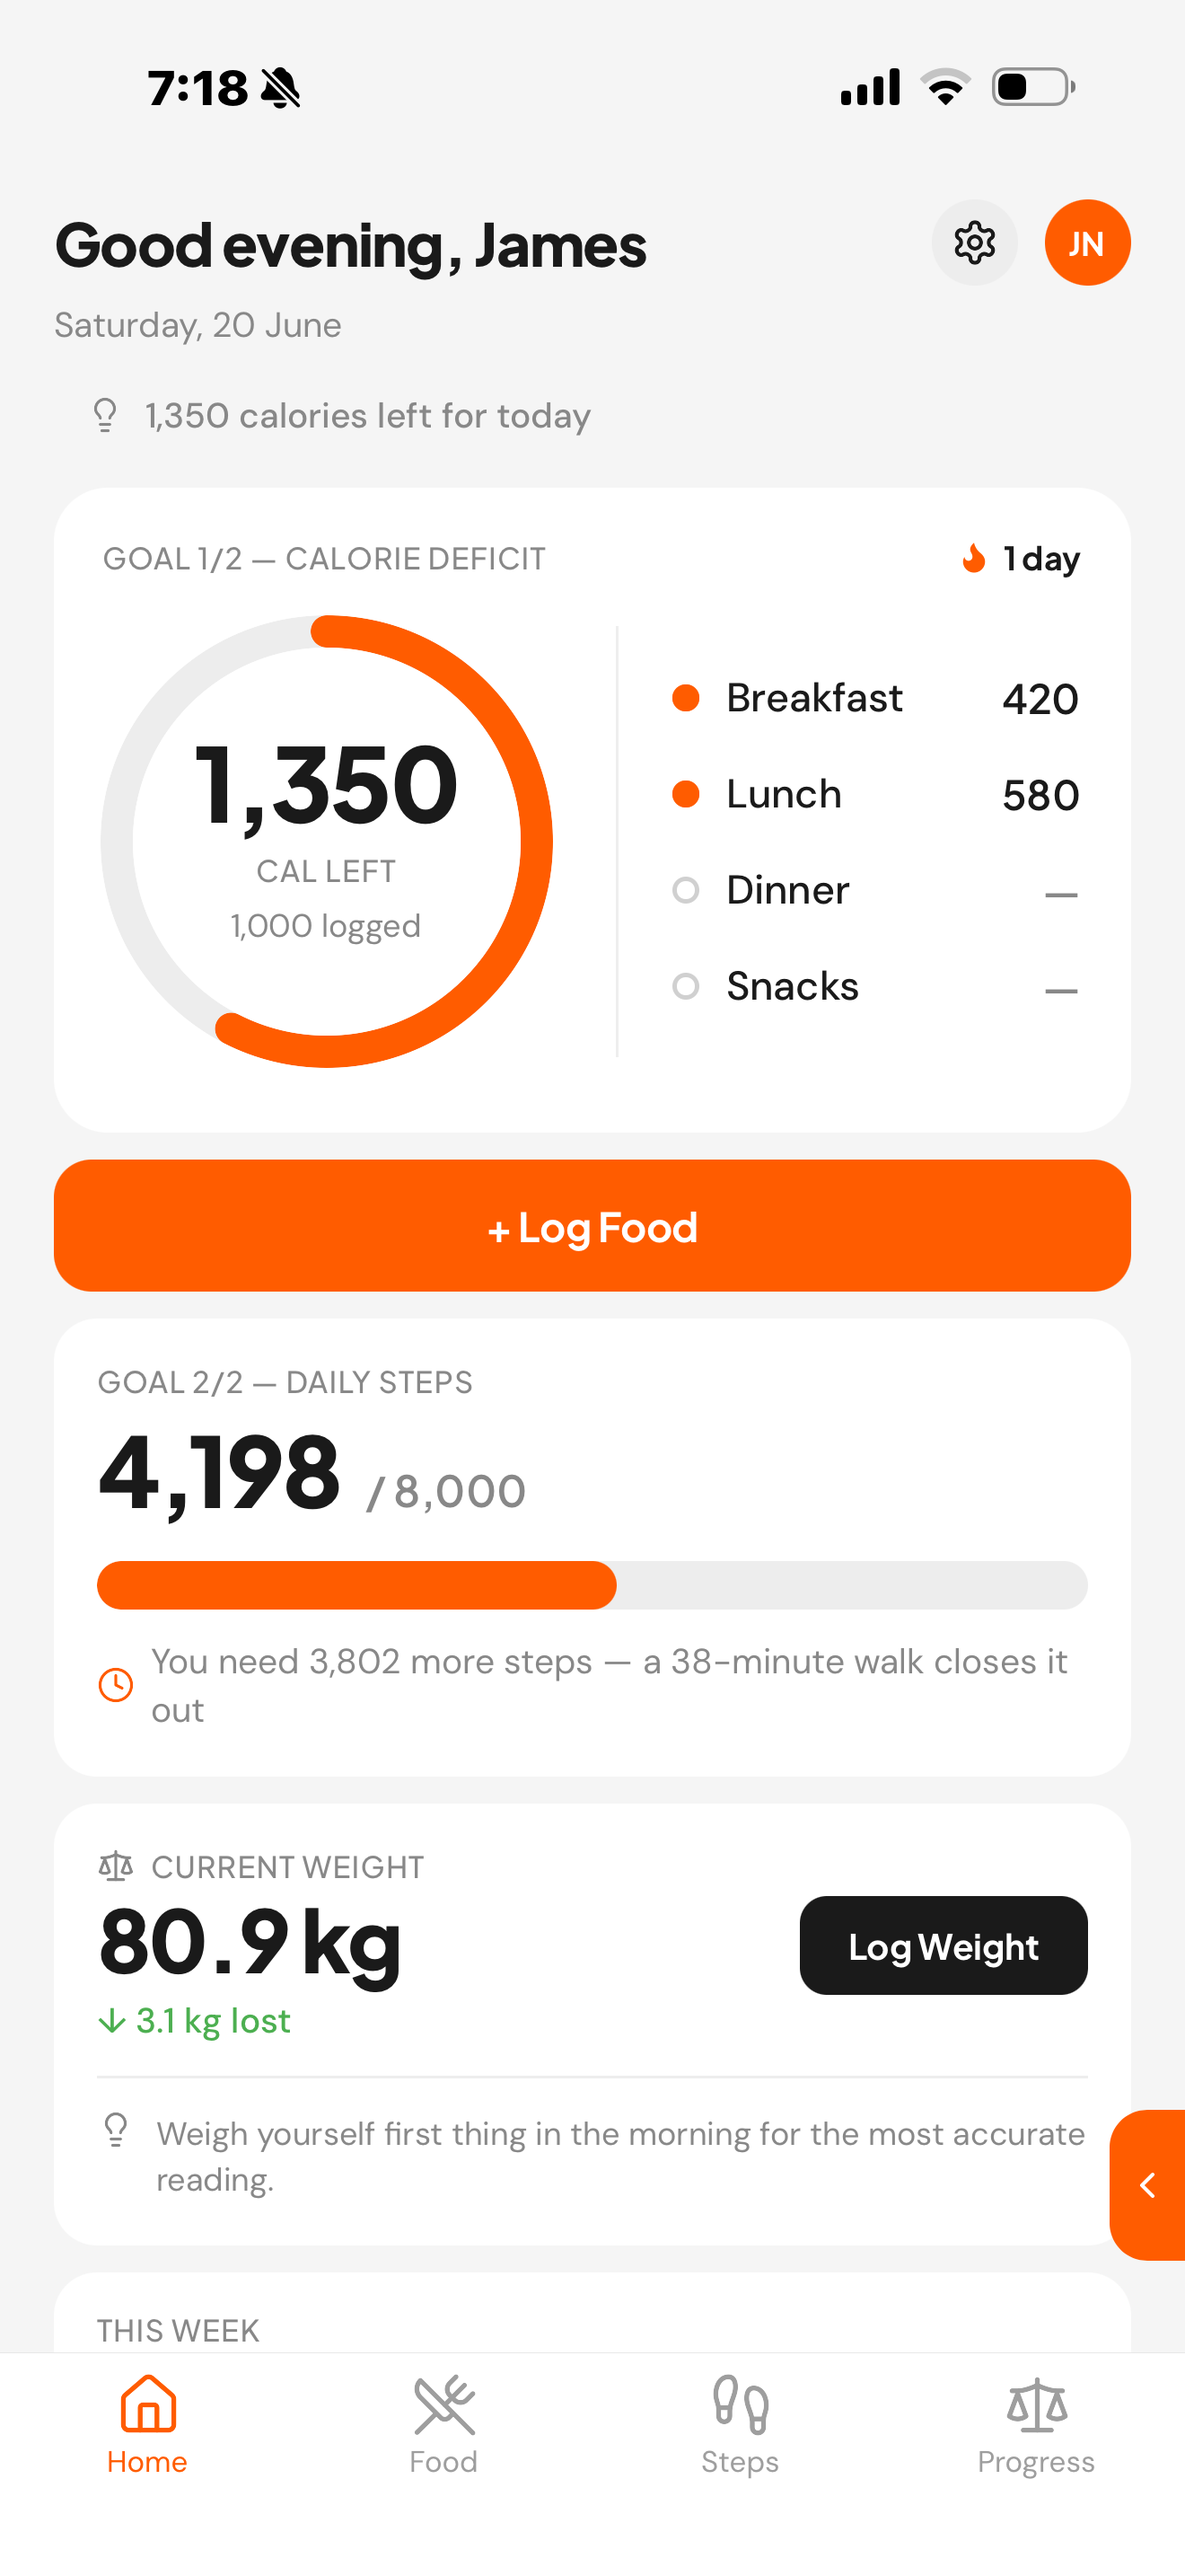
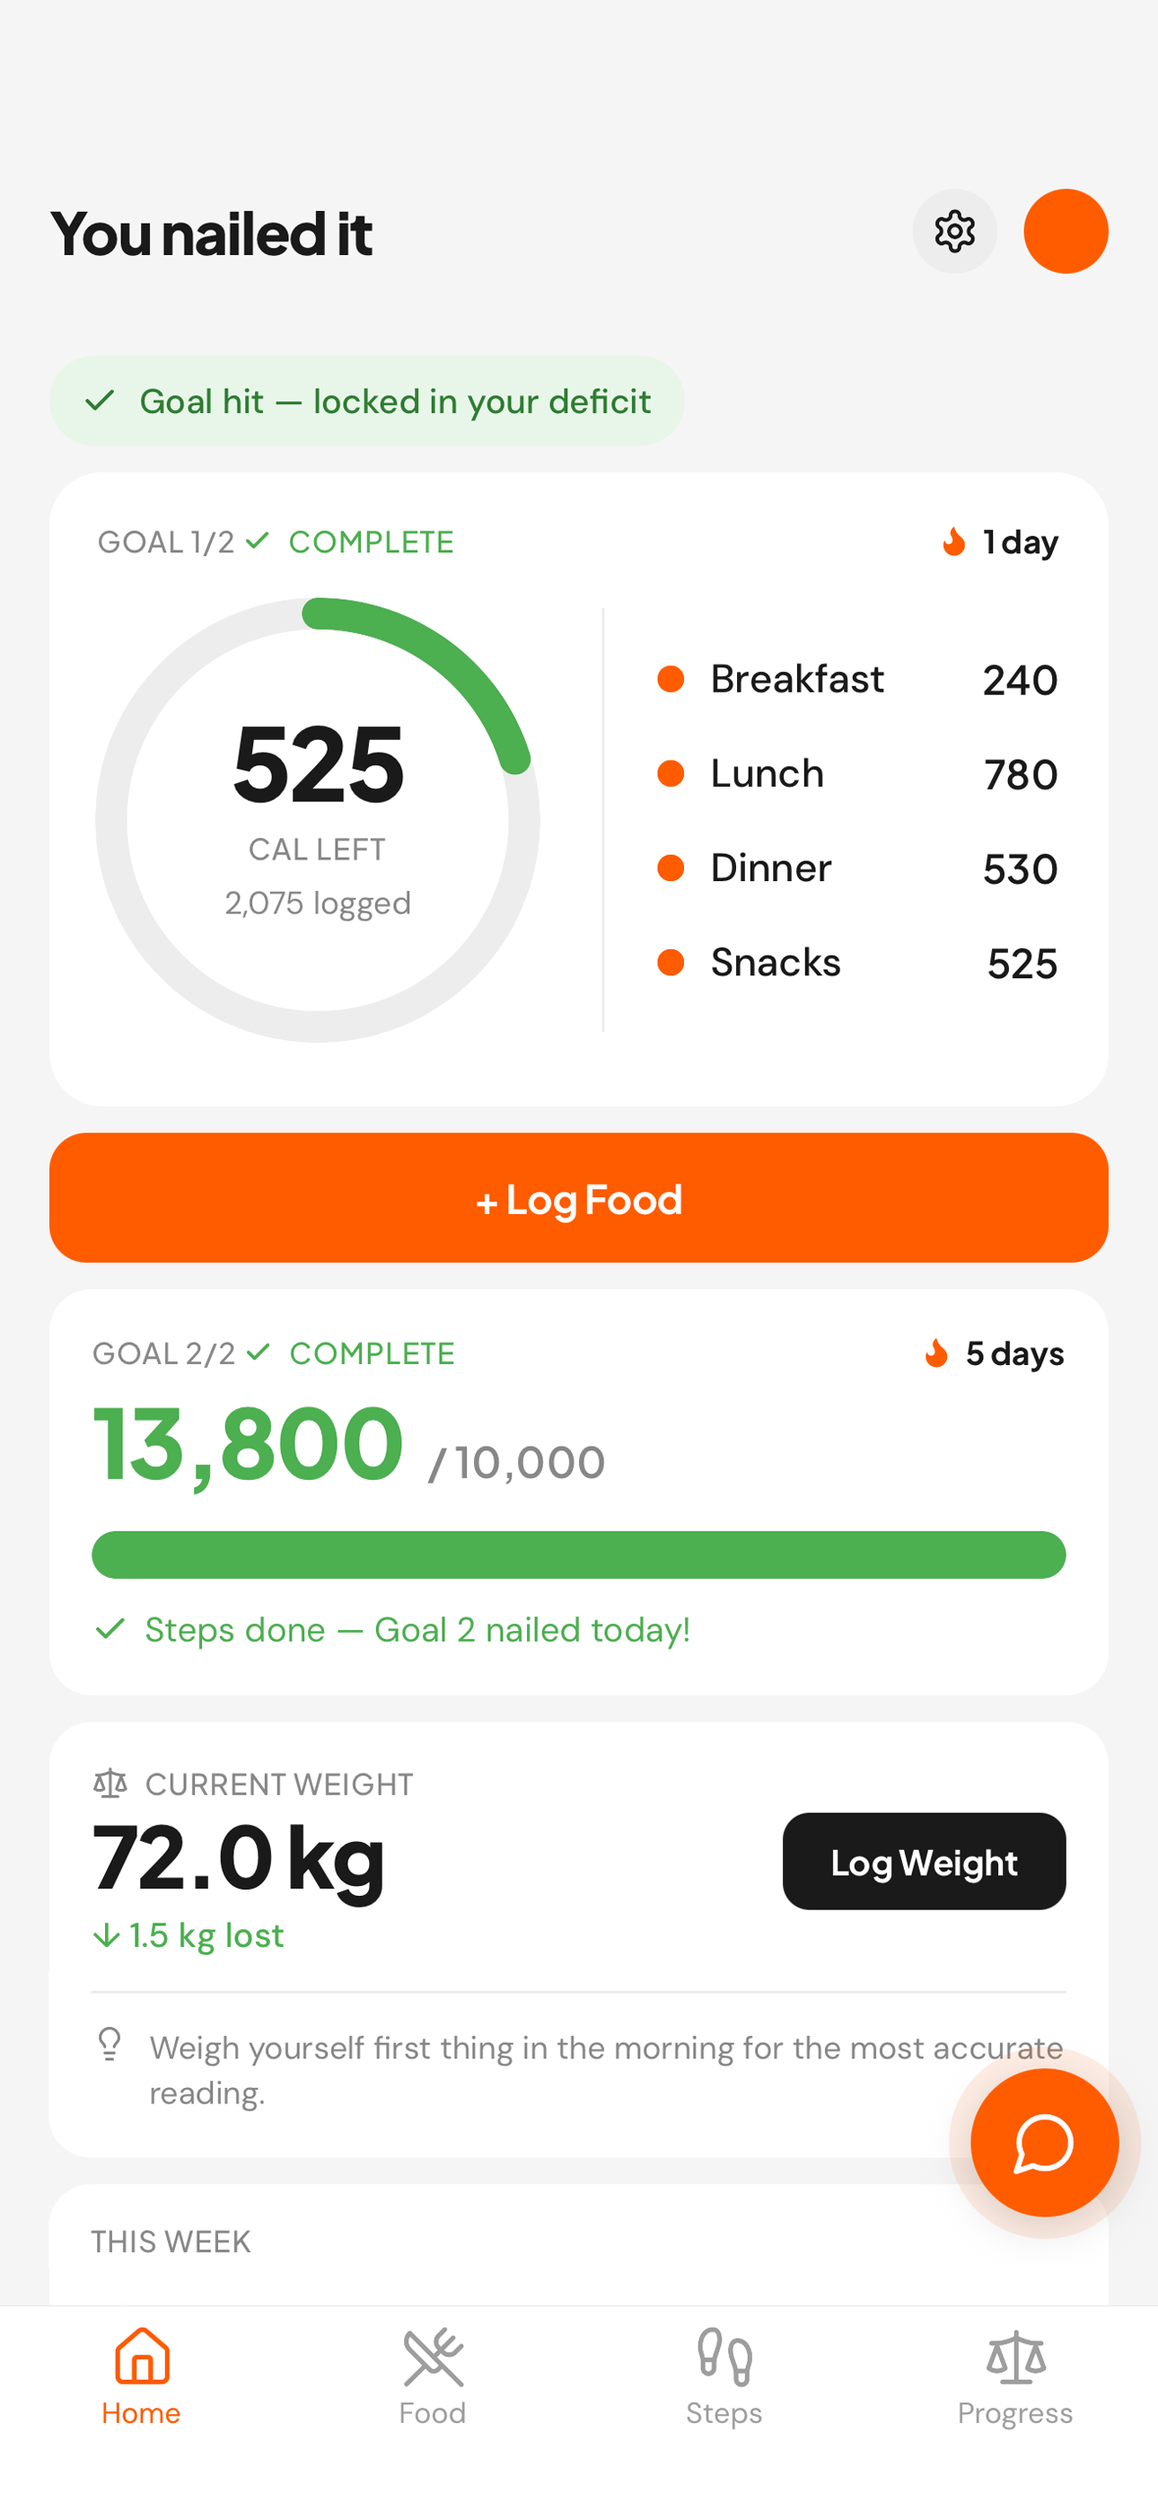
Homepage for the Monthly: hero, Monthly band, FAQ, footer conditions, Apple Health wording, de-identified screenshot, overflow fix — local branch, push at 1.4.0 release

diff --git a/index.html b/index.html
@@ -7,10 +7,10 @@
      Deleting this tag silently un-verifies the domain, with no error anywhere, and
      degrades iOS web-event attribution. Must stay on the root page. -->
 <meta name="facebook-domain-verification" content="4comzjx3nbvg57ntysb26hwv81cun3" />
-<title>CalCut — Two rules. That's it.</title>
-<meta name="description" content="The fat loss app built on two daily rules. Hit your steps. Stay in a calorie deficit. That's it.">
-<meta property="og:title" content="CalCut — Two rules. That's it.">
-<meta property="og:description" content="The fat loss app built on two daily rules. Hit your steps. Stay in a calorie deficit.">
+<title>CalCut — Lose weight. Win A$1,000 every month.</title>
+<meta name="description" content="The calorie and step tracker that pays out. Hit your two daily goals to score points — the member with the most points each month wins A$1,000. 18+, eligible countries, T&amp;Cs apply.">
+<meta property="og:title" content="CalCut — Lose weight. Win A$1,000 every month.">
+<meta property="og:description" content="Hit your calorie and step goals each day to score points. Most points each month wins A$1,000. 18+, eligible countries, T&amp;Cs apply.">
 <meta property="og:type" content="website">
 <meta property="og:url" content="https://calcut.com.au">
 <meta property="og:image" content="https://calcut.com.au/assets/icon.png">
@@ -58,8 +58,8 @@
   @media (max-width: 600px) { .nav-links { gap: 18px; font-size: 14px; } .nav-inner { padding: 16px 20px; } .nav-brand-icon { height: 26px; width: 26px; } .nav-brand-text { font-size: 17px; } }
 
   /* HERO */
-  .hero { max-width: 1200px; margin: 0 auto; padding: 72px 24px 80px; display: grid; grid-template-columns: 1.15fr 1fr; gap: 60px; align-items: center; }
-  @media (max-width: 900px) { .hero { grid-template-columns: 1fr; gap: 56px; padding: 48px 24px 56px; text-align: center; } }
+  .hero { overflow-x: clip; max-width: 1200px; margin: 0 auto; padding: 72px 24px 80px; display: grid; grid-template-columns: 1.15fr 1fr; gap: 60px; align-items: center; }
+  @media (max-width: 900px) { .hero { grid-template-columns: minmax(0, 1fr); gap: 56px; padding: 48px 24px 56px; text-align: center; } }
 
   .hero-content { max-width: 580px; }
   @media (max-width: 900px) { .hero-content { margin: 0 auto; } }
@@ -68,7 +68,7 @@
   .hero-eyebrow::before { content: ''; width: 6px; height: 6px; border-radius: 50%; background: var(--orange); animation: pulse 2s ease-in-out infinite; }
   @keyframes pulse { 0%, 100% { opacity: 1; transform: scale(1); } 50% { opacity: 0.5; transform: scale(1.3); } }
 
-  h1.hero-title { font-family: var(--display); font-weight: 800; font-size: clamp(46px, 6.5vw, 76px); line-height: 1.02; letter-spacing: -0.035em; color: var(--black); margin-bottom: 24px; }
+  h1.hero-title { font-family: var(--display); font-weight: 800; font-size: clamp(40px, 6.5vw, 76px); line-height: 1.02; letter-spacing: -0.035em; color: var(--black); margin-bottom: 24px; }
   h1.hero-title .accent-orange { color: var(--orange); }
   h1.hero-title .accent-green { color: var(--green); }
 
@@ -174,6 +174,26 @@
   .delay-3 { animation-delay: 0.3s; }
   .delay-4 { animation-delay: 0.4s; }
   @keyframes fadeUp { to { opacity: 1; transform: translateY(0); } }
+
+  /* MONTHLY (added for 1.4.0) */
+  .hero-links { margin-top: 18px; }
+  .how-link { display: inline-block; font-family: var(--display); font-weight: 700; font-size: 16px; color: var(--orange); }
+  .how-link:hover { text-decoration: underline; }
+  .hero-fine { margin-top: 14px; font-size: 13px; color: var(--grey); line-height: 1.5; max-width: 480px; }
+  .hero-fine a { text-decoration: underline; }
+  @media (max-width: 900px) { .hero-fine { margin-left: auto; margin-right: auto; } }
+  .monthly-band { background: var(--card); padding: 96px 24px; border-top: 1px solid rgba(0,0,0,0.04); }
+  @media (max-width: 900px) { .monthly-band { padding: 68px 20px; text-align: center; } .monthly-band .section-title, .monthly-band .section-sub { margin-left: auto; margin-right: auto; } }
+  .monthly-inner { max-width: 1100px; margin: 0 auto; }
+  .monthly-band .section-sub { margin-bottom: 28px; }
+  .monthly-chips { display: flex; flex-wrap: wrap; gap: 10px; margin-bottom: 26px; }
+  @media (max-width: 900px) { .monthly-chips { justify-content: center; } }
+  .mchip { background: var(--orange-pale); border: 1px solid var(--orange-border); color: var(--black); border-radius: 100px; padding: 9px 16px; font-family: var(--display); font-weight: 700; font-size: 15px; }
+  .mchip b { color: var(--orange); font-weight: 800; }
+  .mchip.green { background: var(--green-pale); border-color: #C8E6C9; }
+  .mchip.green b { color: #2E7D32; }
+  .footer-conditions { max-width: 1200px; margin: 24px auto 0; font-size: 12px; color: var(--grey); line-height: 1.55; }
+  @media (max-width: 600px) { .footer-conditions { text-align: center; } }
 </style>
 <!-- Meta pixel - REQUIRED for Landing Page View optimisation and web retargeting.
      Pixel/dataset ID 1462477942379494 - the "CalCut Web" dataset in Meta Events Manager.
@@ -210,15 +230,18 @@ fbq('track', 'PageView');
 
 <section class="hero">
   <div class="hero-content">
-    <div class="hero-eyebrow fade-up">Now on the App Store</div>
+    <div class="hero-eyebrow fade-up">New: The CalCut Monthly</div>
     <h1 class="hero-title fade-up delay-1">
-      Two rules.<br>
-      <span class="accent-green">That's it.</span>
+      Lose weight.<br>
+      <span class="accent-orange">Win A$1,000</span><br>
+      every month.
     </h1>
     <p class="hero-sub fade-up delay-2">
-      The fat loss app built on two daily rules. Stay in a calorie deficit, hit your step goal. Nothing else to track.
+      The calorie tracker with two daily rules: stay in your calorie target and hit your steps. Every day you hit them scores points — the member with the most points each month wins A$1,000.
     </p>
     <a href="https://apps.apple.com/app/id6774035581" class="app-store-badge fade-up delay-3" aria-label="Download CalCut on the App Store" data-cta="hero"><img src="assets/app-store-badge.svg" alt="Download on the App Store"></a>
+    <div class="hero-links fade-up delay-3"><a href="monthly.html" class="how-link">How the Monthly works &rarr;</a></div>
+    <p class="hero-fine fade-up delay-3">18+. Australia, New Zealand, UK, Canada and US only, exclusions apply. <a href="monthly-terms.html">Terms</a>.</p>
   </div>
 
   <div class="hero-visual fade-up delay-2">
@@ -249,7 +272,7 @@ fbq('track', 'PageView');
       <div class="rule-card">
         <div class="rule-number">RULE 02</div>
         <h3 class="rule-title">Hit your daily steps.</h3>
-        <p class="rule-desc">Personalised goal based on your starting point. The app pulls your steps from your iPhone automatically — no manual logging.</p>
+        <p class="rule-desc">Personalised goal based on your starting point. Steps are counted automatically from Apple Health — your iPhone, or your Apple Watch if you wear one.</p>
       </div>
     </div>
   </div>
@@ -264,8 +287,23 @@ fbq('track', 'PageView');
       <span class="transform-dot green"></span>
       <span style="color: var(--green);">Goal hit</span>
     </div>
-    <h2 class="transform-title">When the app turns <span class="accent-green">green</span>, you've won the day.</h2>
+    <h2 class="transform-title">When the app turns <span class="accent-green">green</span>, that's a Perfect Day.</h2>
     <p class="transform-sub">Every metric starts the day in orange. Hit the goal and it flips to green. That's the whole scoreboard. Simple to glance at. Hard to ignore.</p>
+  </div>
+</section>
+
+<section class="monthly-band">
+  <div class="monthly-inner">
+    <div class="section-eyebrow">The CalCut Monthly</div>
+    <h2 class="section-title">Every Perfect Day scores. Most points wins A$1,000.</h2>
+    <p class="section-sub">Each month, the member who hits their two rules most consistently takes the prize. Weight lost never scores — consistency does.</p>
+    <div class="monthly-chips">
+      <span class="mchip"><b>+2</b> steps</span>
+      <span class="mchip"><b>+2</b> calories</span>
+      <span class="mchip green"><b>+8</b> Perfect Day</span>
+      <span class="mchip green"><b>+16</b> on weekends</span>
+    </div>
+    <a href="monthly.html" class="how-link">How the Monthly works &rarr;</a>
   </div>
 </section>
 
@@ -294,6 +332,10 @@ fbq('track', 'PageView');
     </div>
 
     <details class="faq-item">
+      <summary>What is the CalCut Monthly?</summary>
+      <div class="faq-body">Every month, A$1,000 goes to the member with the most points for hitting their two daily rules. 2 points for your steps, 2 for your calories, 8 for both, 16 for both on a weekend. No draw, no luck — and weight lost never scores. 18+, in Australia, New Zealand, the UK, Canada and the US (exclusions apply). <a href="monthly.html" style="color: var(--orange); font-weight: 600;">How it works</a>.</div>
+    </details>
+    <details class="faq-item">
       <summary>How much does CalCut cost?</summary>
       <div class="faq-body">CalCut is $15.99 AUD per month, or $59.99 AUD per year (saves you about 69%). The annual plan starts with a 7-day free trial. The monthly plan has no trial and bills immediately. You can manage or cancel your subscription in your Apple subscription settings.</div>
     </details>
@@ -315,7 +357,7 @@ fbq('track', 'PageView');
 
     <details class="faq-item">
       <summary>Does CalCut work with Apple Health?</summary>
-      <div class="faq-body">Yes. CalCut reads your daily step count from Apple HealthKit automatically. No fitness tracker required — your iPhone is enough.</div>
+      <div class="faq-body">Yes. CalCut reads your daily steps from Apple Health automatically — from your iPhone, or your Apple Watch if you wear one. No other tracker needed.</div>
     </details>
 
     <details class="faq-item">
@@ -340,12 +382,13 @@ fbq('track', 'PageView');
       <span class="footer-text">© 2026 CalCut Pty Ltd. Built in Melbourne.</span>
     </div>
     <div class="footer-links">
-      <a href="guarantee.html">Guarantee</a>
+      <a href="monthly.html">The Monthly</a>
       <a href="support.html">Support</a>
       <a href="privacy.html">Privacy</a>
       <a href="mailto:support@calcut.com.au">Contact</a>
     </div>
   </div>
+  <p class="footer-conditions">The CalCut Monthly: 18+. Residents of AU, NZ, UK, CA (excl. Quebec) and the US (excl. AZ, CO, MD, NE, NJ, ND, TN, VT) with an active CalCut subscription. One A$1,000 prize per calendar month to the eligible entrant with the most points for hitting their daily calorie and step targets; ties split. Terms: calcut.com.au/monthly-terms</p>
 </footer>
 
 <!-- Bridge-page diagnostics for 04 Media-Buying Playbook: App Store button clicks and
